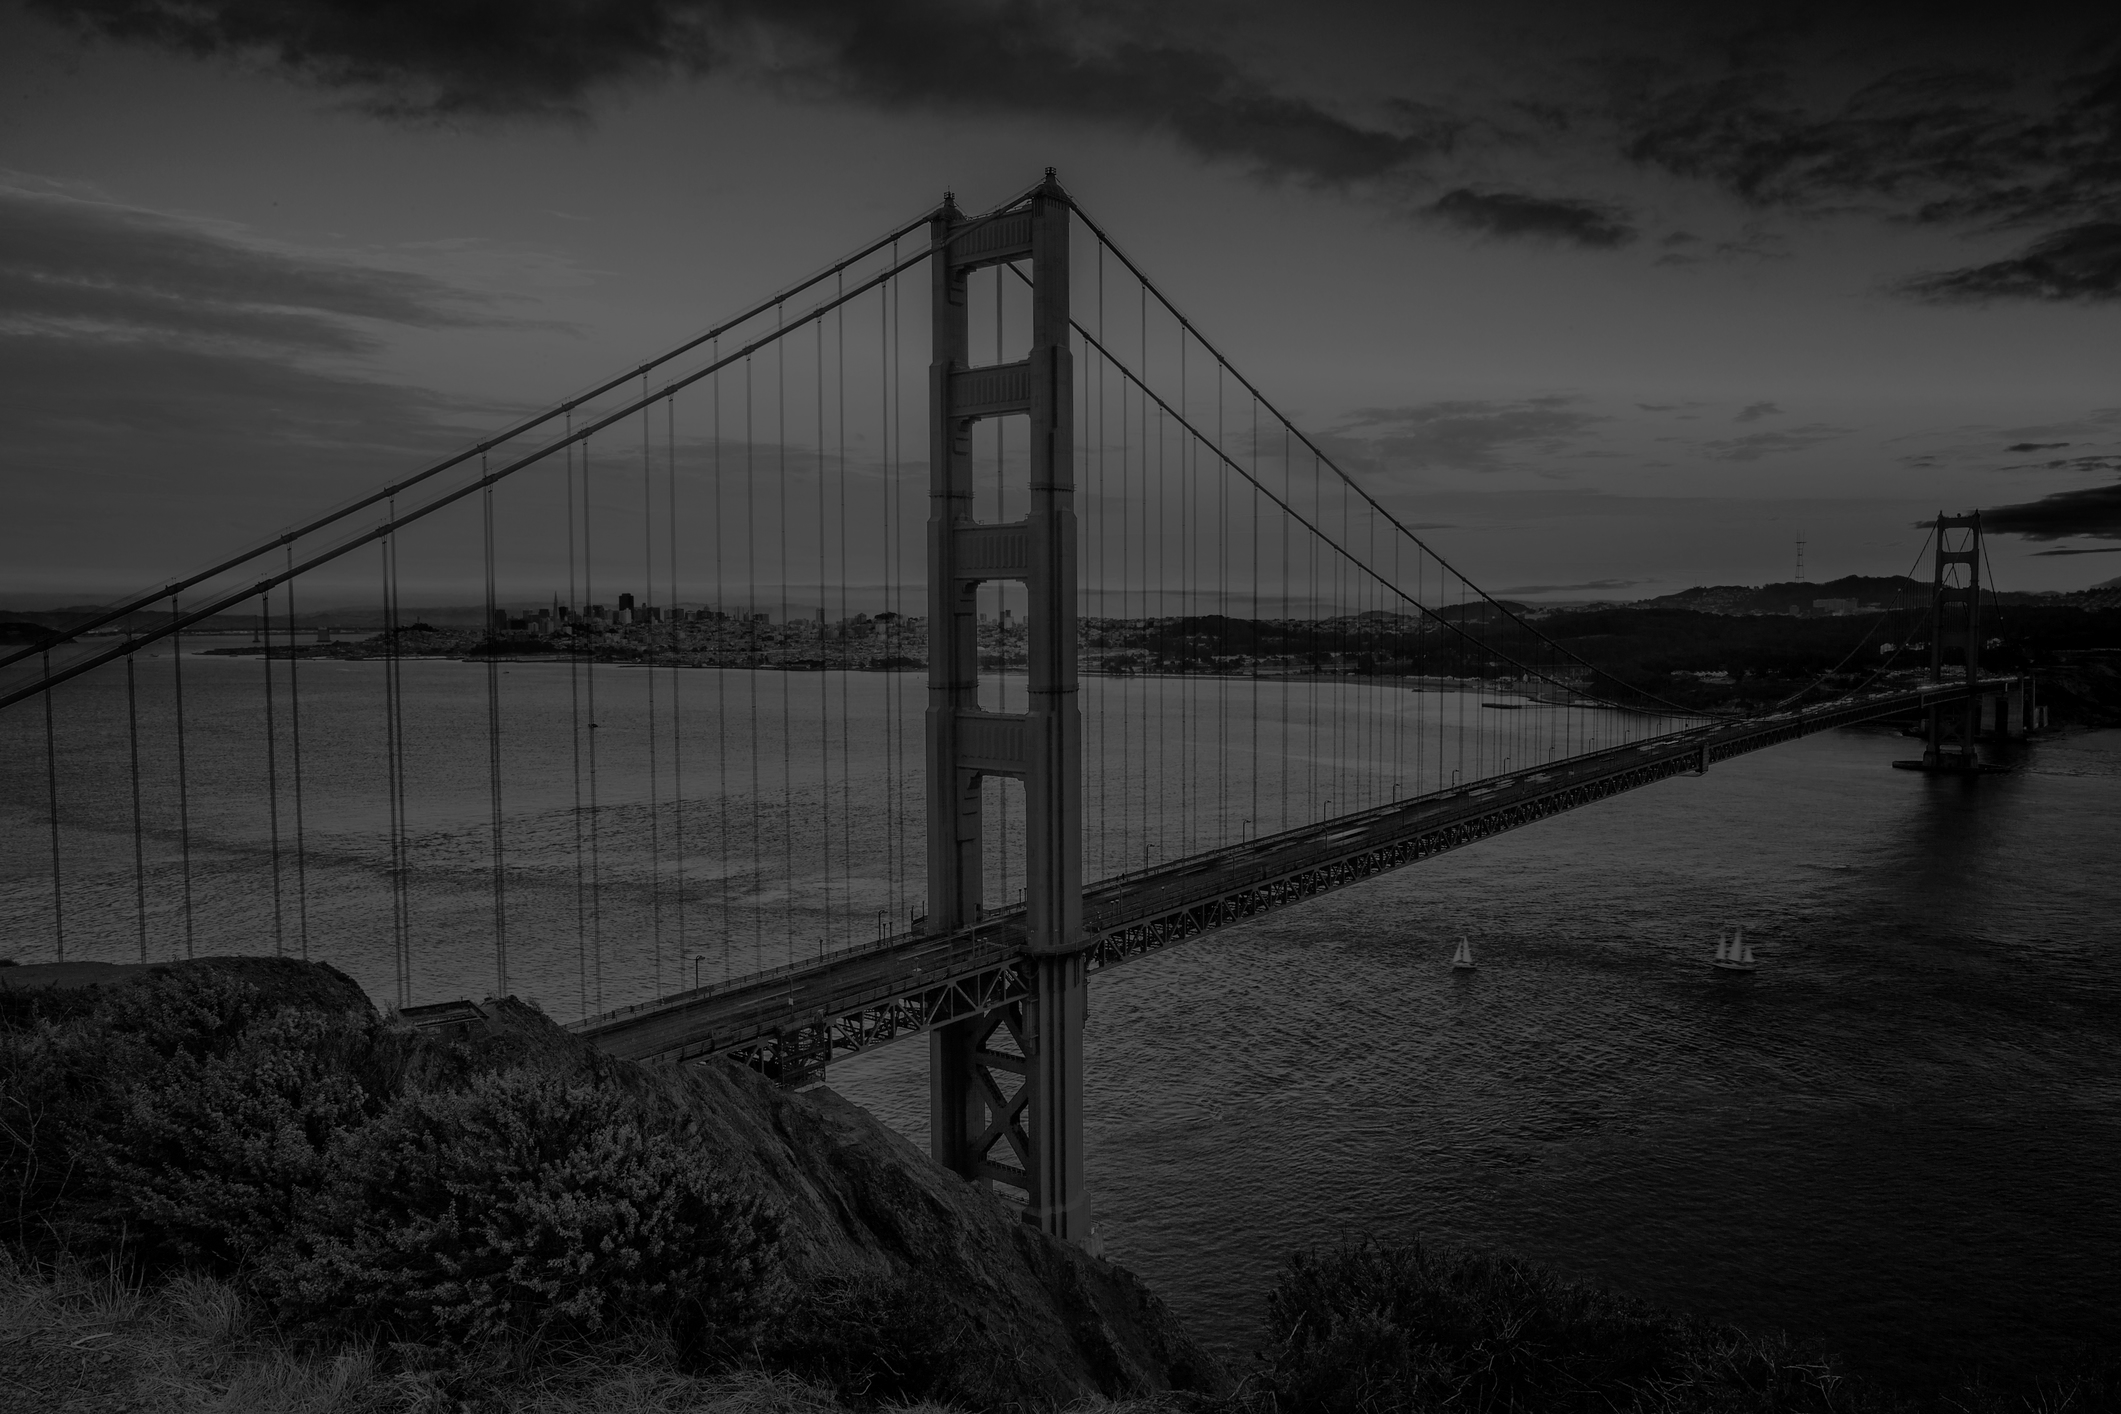
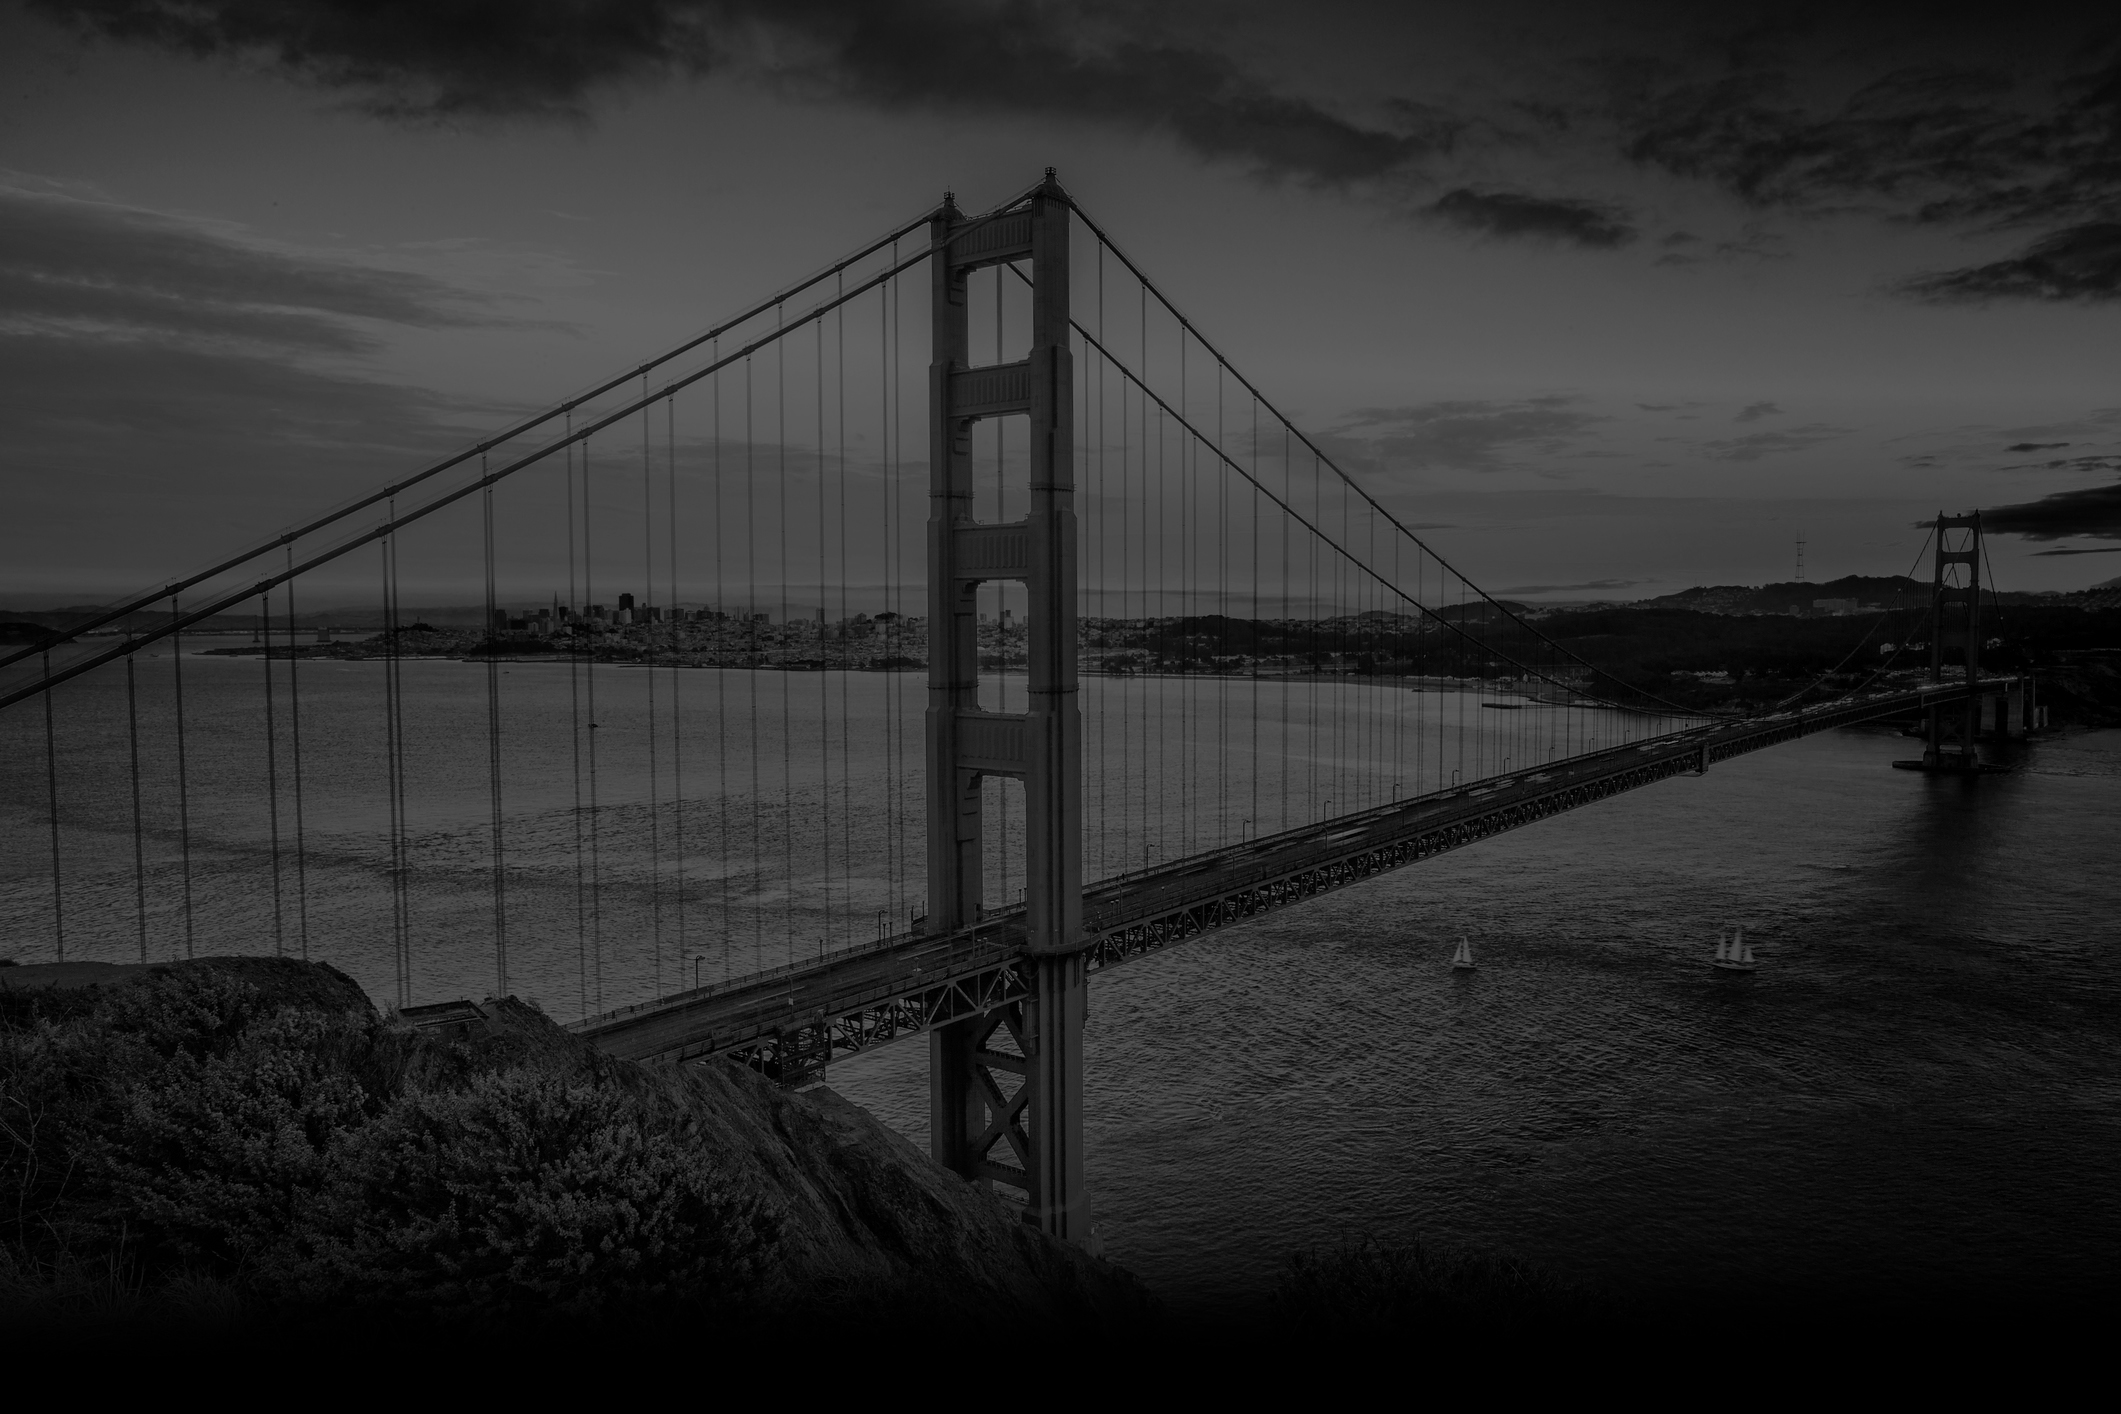
mobile version is good to go

Changed region(s): [[0.0, 0.9024, 0.6223, 1.0], [0.7779, 0.9646, 0.8091, 1.0], [0.8091, 0.9335, 0.8402, 0.9646]]

diff --git a/src/components/contact.js b/src/components/contact.js
@@ -3,8 +3,36 @@ import '../styles/contact.css'
 
 const Contact = () => {
   return(
-    <div className='contact'>
-      Contact
+    <div className='contact' id='contact'>
+      <div className='get-connected'>
+        GET <span>CONNECTED</span>
+      </div>
+      <div className='info flex'>
+        <a href='mailto:edgarsbarajas@me.com' className='flex details'>
+          <img src='/photos/contact/icons/email.png' alt='email'/>
+          <span>edgarsbarajas@me.com</span>
+        </a>
+        <a href='tel:+19255863672' className='flex details'>
+          <img src='/photos/contact/icons/phone.png' alt='phone'/>
+          <span>(925)586-3672</span>
+        </a>
+        <a href='https://github.com/edgarsbarajas' className='flex details'>
+          <img src='/photos/contact/icons/github.png' alt='github'/>
+          <span>edgarsbarajas</span>
+        </a>
+        <a href='https://www.linkedin.com/in/edgarsbarajas/' className='flex details'>
+          <img src='/photos/contact/icons/linkedin.png' alt='linkedin'/>
+          <span>/in/edgarsbarajas</span>
+        </a>
+        <a href='https://twitter.com/edgarsbarajas' className='flex details'>
+          <img src='/photos/contact/icons/twitter.png' alt='twitter'/>
+          <span>@edgarsbarajas</span>
+        </a>
+        <a href='https://www.instagram.com/stevenbones/' className='flex details'>
+          <img src='/photos/contact/icons/instagram.png' alt='instagram'/>
+          <span>@stevenbones</span>
+        </a>
+      </div>
     </div>
   )
 }

diff --git a/src/styles/contact.css b/src/styles/contact.css
@@ -1,4 +1,49 @@
 .contact {
   height: 800px;
-  background: yellow;
+  background: black;
+  color: white;
+  font-family: 'Quicksand', sans-serif;
+}
+
+.contact .get-connected {
+  text-align: center;
+  font-size: 30px;
+  margin-bottom: 10px;
+}
+
+.contact .get-connected span {
+  font-weight: 700;
+}
+
+.contact .flex {
+  display: flex;
+}
+
+.contact .info {
+  flex-wrap: wrap;
+  flex-direction: column;
+  align-items: flex-start;
+}
+
+.contact .details {
+  align-items: center;
+  margin: 10px 20%;
+  text-shadow: 2px 2px 4px #00ffcc;
+}
+
+.contact .details {
+  text-decoration: none;
+  color: white;
+}
+
+.contact .details:hover {
+  color: #00ffcc;
+}
+
+.contact .details img {
+  width: 30px;
+}
+
+.contact .details span {
+  margin-left: 10px;
 }

diff --git a/public/index.html b/public/index.html
@@ -11,6 +11,7 @@
     <link rel="manifest" href="%PUBLIC_URL%/manifest.json">
     <link rel="shortcut icon" href="%PUBLIC_URL%/favicon.ico">
     <link href="https://fonts.googleapis.com/css?family=Magra" rel="stylesheet">
+    <link href="https://fonts.googleapis.com/css?family=Quicksand:400,700" rel="stylesheet">
     <!--
       Notice the use of %PUBLIC_URL% in the tags above.
       It will be replaced with the URL of the `public` folder during the build.

diff --git a/src/components/menu.js b/src/components/menu.js
@@ -31,7 +31,7 @@ class Menu extends React.Component{
             <a href='#about-me'><li>About Me</li></a>
             <li>Projects</li>
             <li>Experience</li>
-            <li>Contact</li>
+            <a href='#contact'><li>Contact</li></a>
           </ul>
         </StyleRoot>
       )

diff --git a/src/App.js b/src/App.js
@@ -11,10 +11,10 @@ class App extends Component {
     return (
       <div className="App">
         <Header/>
+        <Contact/>
         <AboutMe/>
         <Projects/>
         <Experience/>
-        <Contact/>
       </div>
     );
   }

diff --git a/src/styles/header.css b/src/styles/header.css
@@ -3,6 +3,7 @@ header {
   min-height: 100vh;
   background: url("/photos/header/background.jpg");
   background-size: cover;
+  background-position: center bottom;
 }
 
 header img {

diff --git a/src/styles/aboutMe.css b/src/styles/aboutMe.css
@@ -1,4 +1,5 @@
 #about-me {
   height: 800px;
-  background: blue;
+  background: black;
+  color: white;
 }
